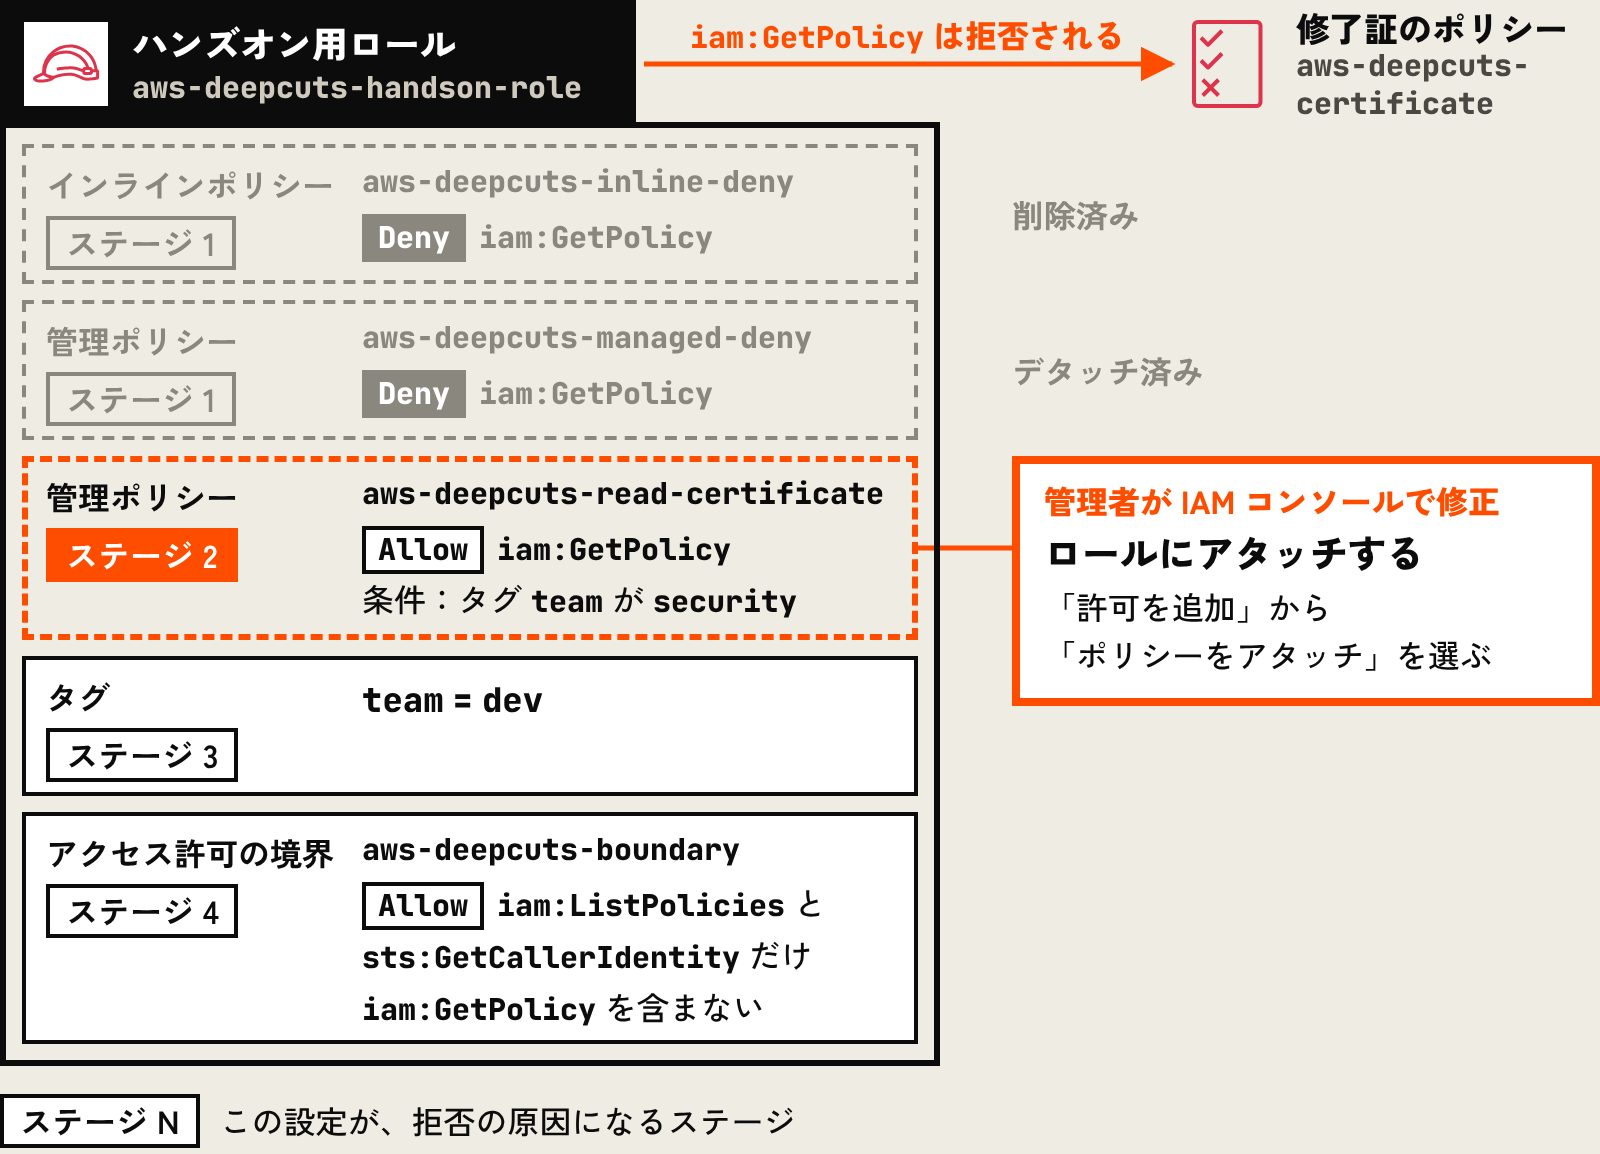
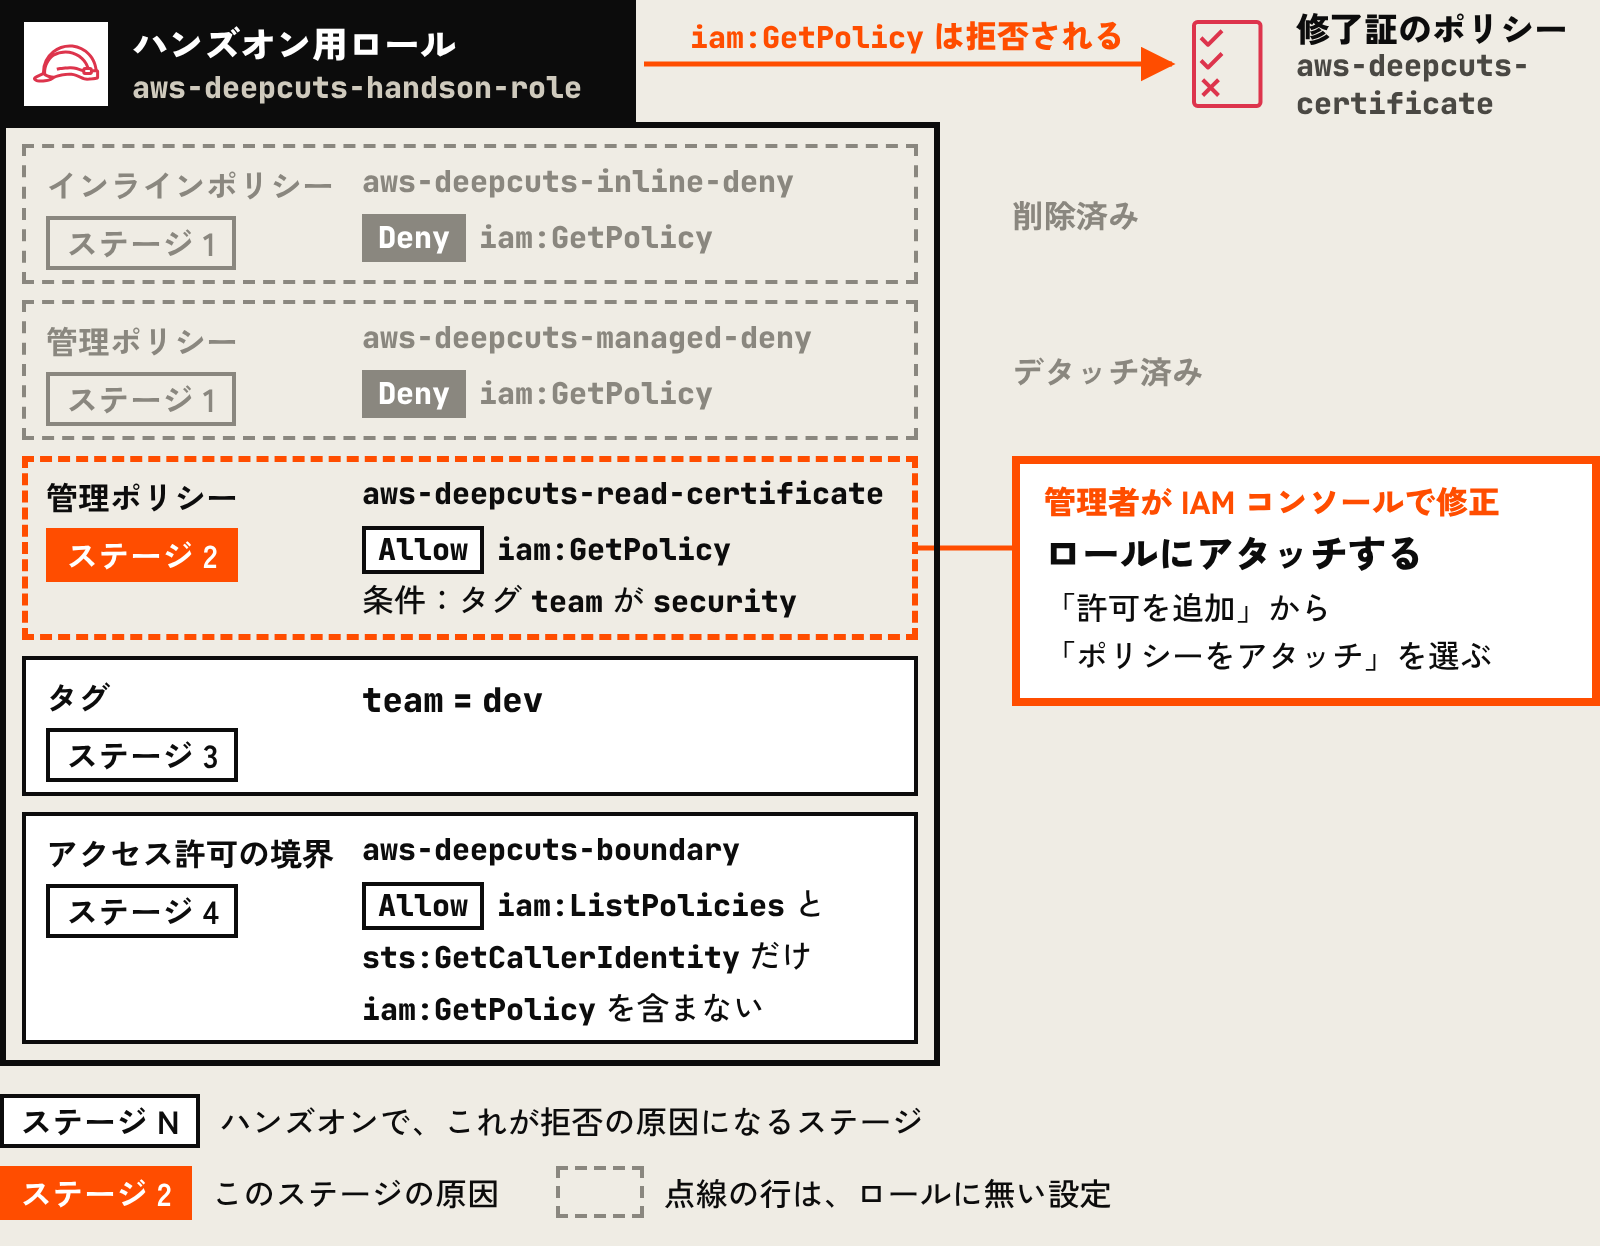
図: 点検の指摘の反映を完了し、本文の用語に合わせる
- 図の修正役の最終版（凡例、問いの番号、例の値、未使用のアイコンの削除など）を取り込む
- MicroVMs の全体像の図: API を呼び出すプログラムを、記事の用語の「管理用のアプリ」にする
- IAM の流れの図: 評価の詳細は、エラーを返す処理とは別に記録され、少なくとも 24 時間は照会できる、
  という API リファレンスの言い方に合わせる

Claude-Session: https://claude.ai/code/session_01DsXfw3zJ6D7Ti4fGU1rtwj

diff --git a/img/src/architecture.html b/img/src/architecture.html
@@ -3,11 +3,15 @@
 <!-- ハンズオンの構成図（README の「構築するアーキテクチャ」、記事の「ハンズオンはこちら！」）。
      左の枠は、あなた（管理者）が操作する 2 つの画面。右の枠は AWS アカウントの中で使うもの。
      上から順に、手順 2（CloudShell でロールに切り替え、修了証のポリシーを読み取る）、手順 3（コンソールで ID を照会する）、手順 4（コンソールで設定を修正する）。
+     手順 1 は線にせず、AWS アカウントの枠の見出しの右に注記する（hands-on/setup.sh が、ハンズオン用ロールと 5 つのポリシーを作成する）。
      根拠:
        - 手順 2: hands-on/switch-role.sh が aws sts assume-role（IAM のアクション sts:AssumeRole）で、ハンズオン用ロール aws-deepcuts-handson-role の一時的な認証情報を取得する。
-         STS からハンズオン用ロールへの縦の線の右にあるラベル「一時的な認証情報を発行する」は、このことを指す。README 手順 2 の「CloudShell がハンズオン用ロールの一時的な認証情報を使うようになります」と同じ説明。
+         STS からハンズオン用ロールへの縦の線の右にあるラベル「ロールの一時的な認証情報を発行する」は、このことを指す。STS は認証情報を CloudShell に返し、
+         以後の操作はハンズオン用ロールとして行われる。README 手順 2 の「CloudShell がハンズオン用ロールの一時的な認証情報を使うようになります」と同じ説明。
          信頼ポリシーは sts:AssumeRole と sts:TagSession を許可（hands-on/setup.sh）。
        - 読み取り: aws iam get-policy（アクション iam:GetPolicy）で、管理ポリシー aws-deepcuts-certificate の説明文を読む。ロールの設定で拒否される（setup.sh、設計書 v3 のステージの表）。
+       - CloudShell の us-east-1: README の前提条件で、CloudShell をバージニア北部（us-east-1）で開く。Access Troubleshooter のプレビューも us-east-1。
+       - 名前: 記事と README は「以降 Access Troubleshooter と呼ぶ」と決めているため、ノードの名前も Access Troubleshooter にする。IAM の機能であることはアイコンで示す。
        - 手順 3: エラーメッセージのリンク https://us-east-1.console.aws.amazon.com/iam/home?region=us-east-1#/authorization-details/<ID>。
          API は IAM Toolbox の GetRequestAuthorizationDetails。プレビューは us-east-1（IAM User Guide「Troubleshoot access denied error messages with authorization ID (Preview)」、ファクトシート 007・012）。
        - 手順 4: IAM コンソールの、ロールの「許可」タブ・「タグ」タブと、ポリシーの編集（設計書 v3「コンソールの操作で使う画面の名前」）。
@@ -36,6 +40,10 @@
   .lbl.step b { font-weight: 900; }
   .lbl.deny { color: var(--hot); font-weight: 900; }
   .lbl.deny.code { font-family: var(--font-mono); font-weight: 800; font-size: 15px; line-height: 22px; }
+  .lbl.two { line-height: 22px; }
+  /* 枠の見出しの右の注記 */
+  .gnote { position: absolute; font-size: 16px; font-weight: 700; color: var(--grey); white-space: nowrap; line-height: 22px; }
+  .gnote code, .lbl code { font-family: var(--font-mono); font-weight: 800; font-size: 15px; }
 </style>
 </head><body>
 <div id="fig">
@@ -45,7 +53,7 @@
   <div class="grp you" style="left:0;top:0;width:170px;height:520px">
     <div class="gl"><img src="../icons/User.svg" alt="">あなた・管理者</div>
   </div>
-  <div class="node" id="cs" style="left:5px;top:98px;width:160px"><img src="../icons/AWSCloudShell.svg" alt=""><div class="t">AWS CloudShell</div></div>
+  <div class="node" id="cs" style="left:5px;top:98px;width:160px"><img src="../icons/AWSCloudShell.svg" alt=""><div class="t">AWS CloudShell</div><div class="s code">us-east-1</div></div>
   <div class="node" id="con" style="left:5px;top:222px;width:160px"><img src="../icons/Client.svg" alt=""><div class="t">マネジメント<br>コンソール</div><div class="s">ブラウザ</div></div>
 
   <!-- 右：AWS アカウント -->
@@ -55,9 +63,10 @@
   <div class="grp" style="left:200px;top:44px;width:586px;height:462px">
     <div class="gl"><img src="../icons/AWSAccount.svg" alt="">AWS アカウント</div>
   </div>
+  <div class="gnote" id="gn" style="left:388px;top:48px">手順 1 で、<code>setup.sh</code> がロールとポリシーを作成する</div>
 
   <div class="node" id="sts" style="left:423px;top:98px;width:160px"><img src="../icons/AWSIdentityAccessManagementAWSSTS.svg" alt=""><div class="t">AWS STS</div><div class="s code">sts:AssumeRole</div></div>
-  <div class="node" id="ats" style="left:347px;top:222px;width:150px"><img src="../icons/AWSIdentityandAccessManagement.svg" alt=""><div class="t">IAM Access<br>Troubleshooter</div><div class="s code">us-east-1</div></div>
+  <div class="node" id="ats" style="left:347px;top:222px;width:150px"><img src="../icons/AWSIdentityandAccessManagement.svg" alt=""><div class="t">Access<br>Troubleshooter</div><div class="s code">us-east-1</div></div>
   <div class="node" id="role" style="left:418px;top:362px;width:170px"><img src="../icons/AWSIdentityAccessManagementRole.svg" alt=""><div class="t">ハンズオン用ロール</div><div class="s code">aws-deepcuts-<br>handson-role</div></div>
   <div class="node" id="cert" style="left:620px;top:362px;width:160px"><img src="../icons/AWSIdentityAccessManagementPermissions.svg" alt=""><div class="t">修了証のポリシー</div><div class="s code">aws-deepcuts-<br>certificate</div></div>
 
@@ -65,7 +74,7 @@
   <div class="lbl step" id="l2" style="left:214px;top:100px"><b>手順 2:</b> ロールに切り替える</div>
   <div class="lbl step" id="l3" style="left:214px;top:218px"><b>手順 3:</b> ID で照会する</div>
   <div class="lbl step" id="l4" style="left:214px;top:364px"><b>手順 4:</b> 設定を修正する</div>
-  <div class="lbl" id="lsts" style="left:516px;top:271px">一時的な認証情報を発行する</div>
+  <div class="lbl two" id="lsts" style="left:516px;top:260px">ロールの一時的な<br>認証情報を発行する</div>
   <div class="lbl deny code" id="lg" style="left:541px;top:362px">iam:GetPolicy</div>
   <div class="lbl deny" id="ld" style="left:559px;top:394px">拒否される</div>
 </div>

diff --git a/img/src/role-layers.js b/img/src/role-layers.js
@@ -17,8 +17,10 @@
 //   - ステージと修正は DESIGN-v3-iam.md の「ステージ」の表と、README の各ステージの「修正の手順」による。
 //     IAM コンソールの「許可」タブで「削除」を選ぶと、インラインポリシーは削除され（DeleteRolePolicy）、
 //     管理ポリシーはロールからデタッチされる（DetachRolePolicy）。管理ポリシーそのものは後片付けまで残る。
-//   - コンソールの画面の名前（「許可」タブ・許可ポリシー・許可の境界・「タグ」タブ）は DESIGN-v3-iam.md の
-//     「コンソールの操作で使う画面の名前」による
+//   - コンソールの画面の名前（「許可」タブの「許可ポリシー」と「許可の境界」、「タグ」タブ）は DESIGN-v3-iam.md の
+//     「コンソールの操作で使う画面の名前」による。画面の表示名はすべて「」で囲み、用語（アクセス許可の境界など）と区別する。
+//     画面写真を撮るときに、日本語のコンソールの表示と照合する
+//   - 凡例は 5 枚で同じ 2 行にする。1 行目は札の意味。2 行目は、差し色の札（stage-N だけ）と点線の行の意味
 (() => {
   const MODE = document.body.dataset.mode || 'initial';
   const S = MODE === 'initial' ? 0 : Number(MODE.replace('stage-', ''));
@@ -48,10 +50,10 @@
   const ROWS = [
     { id: 'r1', n: 1, h: 70, type: 'インラインポリシー', name: 'aws-deepcuts-inline-deny',
       lines: [`${eff('Deny', S === 1)} ${code('iam:GetPolicy')}`],
-      absent: S >= 2, where: '「許可」タブ ・ 許可ポリシー', done: '削除済み' },
+      absent: S >= 2, where: '「許可」タブの「許可ポリシー」', done: '削除済み' },
     { id: 'r2', n: 1, h: 70, type: '管理ポリシー', name: 'aws-deepcuts-managed-deny',
       lines: [`${eff('Deny', S === 1)} ${code('iam:GetPolicy')}`],
-      absent: S >= 2, where: '「許可」タブ ・ 許可ポリシー', done: 'デタッチ済み' },
+      absent: S >= 2, where: '「許可」タブの「許可ポリシー」', done: 'デタッチ済み' },
     { id: 'r3', n: 2, h: 92, type: '管理ポリシー', name: 'aws-deepcuts-read-certificate',
       lines: [`${eff('Allow')} ${code('iam:GetPolicy')}`,
               `条件：タグ ${code('team')} が ${code('security', S === 3)}`],
@@ -63,7 +65,7 @@
       lines: [`${eff('Allow')} ${code('iam:ListPolicies')} と`,
               `${code('sts:GetCallerIdentity')} だけ`,
               `<span class="${S === 4 ? 'hotline' : ''}">${code('iam:GetPolicy')} を含まない</span>`],
-      absent: false, where: '「許可」タブ ・ 許可の境界', done: '' },
+      absent: false, where: '「許可」タブの「許可の境界」', done: '' },
   ];
   // 右の列の注記
   const note = (r) => {
@@ -87,8 +89,9 @@
   const top = {};
   for (const r of ROWS) { top[r.id] = y; y += r.h + GAP; }
   const CARD_H = y - GAP + PAD + BORDER - CARD_Y;
-  const LEGEND_Y = CARD_Y + CARD_H + 14;
-  const FIG_H = LEGEND_Y + 30;
+  const LEGEND_Y = CARD_Y + CARD_H + 14;     // 凡例の 1 行目
+  const LEGEND_Y2 = LEGEND_Y + 36;           // 凡例の 2 行目
+  const FIG_H = LEGEND_Y2 + 40;
 
   const css = `
   #fig { width: 800px; height: ${FIG_H}px; }
@@ -160,8 +163,10 @@
   .lbl.deny { color: var(--hot); font-weight: 900; line-height: 22px; }
   .lbl.deny code { font-family: var(--font-mono); font-weight: 800; font-size: 15px; }
 
-  /* 凡例 */
-  .legend { position: absolute; left: 0; top: ${LEGEND_Y}px; display: flex; align-items: center; gap: 10px; font-size: 16px; font-weight: 500; }
+  /* 凡例。2 行目には、差し色の札（stage-N だけ）と、点線の行の見本を並べる */
+  .legend { position: absolute; left: 0; display: flex; align-items: center; gap: 28px; font-size: 16px; font-weight: 500; }
+  .legend > span { display: flex; align-items: center; gap: 10px; white-space: nowrap; }
+  .legend .dsh { display: block; width: 44px; height: 26px; border: 2px dashed var(--grey); flex: none; }
   `;
   document.head.insertAdjacentHTML('beforeend', `<style>${css}</style>`);
 
@@ -202,7 +207,10 @@
     html += `<div class="fix" id="fix" style="top:${top[fix.rows[0]]}px"><i>管理者が IAM コンソールで修正</i><b>${fix.title}</b><span>${fix.sub}</span></div>`;
   }
 
-  html += `<div class="legend"><span class="stg">ステージ N</span><span>この設定が、拒否の原因になるステージ</span></div>`;
+  html += `<div class="legend" style="top:${LEGEND_Y}px"><span><span class="stg">ステージ N</span>ハンズオンで、これが拒否の原因になるステージ</span></div>`;
+  html += `<div class="legend" style="top:${LEGEND_Y2}px">`
+    + (S > 0 ? `<span><span class="stg now">ステージ ${S}</span>このステージの原因</span>` : '')
+    + `<span><span class="dsh"></span>点線の行は、ロールに無い設定</span></div>`;
 
   const fig = document.getElementById('fig');
   fig.insertAdjacentHTML('beforeend', html);

diff --git a/img/src/troubleshooter-flow.html b/img/src/troubleshooter-flow.html
@@ -3,7 +3,7 @@
 <!-- 拒否されてから、評価の詳細を照会するまで（記事の「IAM Access Troubleshooter とは？」）。
      3 つの枠: 拒否されるプリンシパル（灰色の点線）、IAM が自動で行う処理（差し色の点線）、管理者（灰色の点線）。
      1 プリンシパルが API を呼び出す → 2 IAM がポリシーを評価し、拒否する → 3 エラーメッセージに authorization ID とコンソールへのリンクを付けて返す。
-     2 の後、IAM は評価の詳細を非同期に記録し、4 で 24 時間保持する → 5 管理者が authorization ID で照会する → 6 管理者が評価の詳細を確認する。
+     2 の後、IAM はエラーを返す処理とは別に、評価の詳細を記録する（4。少なくとも 24 時間は照会できる） → 5 管理者が authorization ID で照会する → 6 管理者が評価の詳細を確認する。
      根拠:
        - 3: エラーメッセージの末尾「Go to https://us-east-1.console.aws.amazon.com/iam/home?region=us-east-1#/authorization-details/<ID> for complete details,
          or call the GetRequestAuthorizationDetails API with the following authorization id: <ID>」（公開されている CI のログ。ファクトシート R1-7 ほか）。
@@ -57,7 +57,7 @@
   <div class="sb" id="s3" data-self="1" style="left:440px;top:186px;width:340px;height:102px"><i>3</i><div>
     <b>エラーメッセージを返す</b><span><em>authorization ID</em> と<br>コンソールへのリンクを付ける</span></div></div>
   <div class="sb hot" id="s4" data-self="1" style="left:16px;top:312px;width:372px"><i>4</i><div>
-    <b>評価の詳細を 24 時間保持する</b><span>拒否が起きたリージョンに保持する<br>拒否の直後は、まだ照会できないことがある<br>プレビューの提供リージョンは <code>us-east-1</code></span></div></div>
+    <b>評価の詳細を記録する</b><span>拒否が起きたリージョンに記録する<br>少なくとも 24 時間は照会できる<br>拒否の直後は、まだ照会できないことがある</span></div></div>
 
   <!-- 管理者 -->
   <div class="sb" id="s5" data-self="1" style="left:16px;top:522px;width:372px"><i>5</i><div>
@@ -65,14 +65,14 @@
   <div class="sb" id="s6" data-self="1" style="left:440px;top:522px;width:340px"><i>6</i><div>
     <b>評価の詳細を確認する</b><ul><li>リクエストのコンテキスト</li><li>判定</li><li>一致したポリシーとステートメント</li><li>評価されたポリシー</li></ul></div></div>
 
-  <div class="lbl k" id="lAsync" style="left:212px;top:279px">非同期に記録する</div>
+  <div class="lbl k" id="lAsync" style="left:212px;top:279px">エラーとは別に記録する</div>
 </div>
 <script>
 window.addEventListener('load', async () => { await document.fonts.ready;
   wire('#s1', '#s2', {from: 'b', to: 't'});                          // 1 → 2：API を呼び出す
   wire('#s2', '#s3', {});                                            // 2 → 3
   wire('#s3', '#s1', {from: 't', to: 'r', elbow: 'v'});              // 3 → 1：エラーメッセージが返る
-  wire('#s2', '#s4', {from: 'b', to: 't'});                          // 2 の後、評価の詳細を非同期に記録する
+  wire('#s2', '#s4', {from: 'b', to: 't'});                          // 2 の後、エラーを返す処理とは別に、評価の詳細を記録する
   wire('#s5', '#s4', {from: 't', to: 'b'});                          // 5 → 4：authorization ID で照会する
   wire('#s4', '#s6', {from: 'r', to: 't', elbow: 'h'});              // 4 → 6：評価の詳細が返る
   document.body.dataset.ready = '1';
